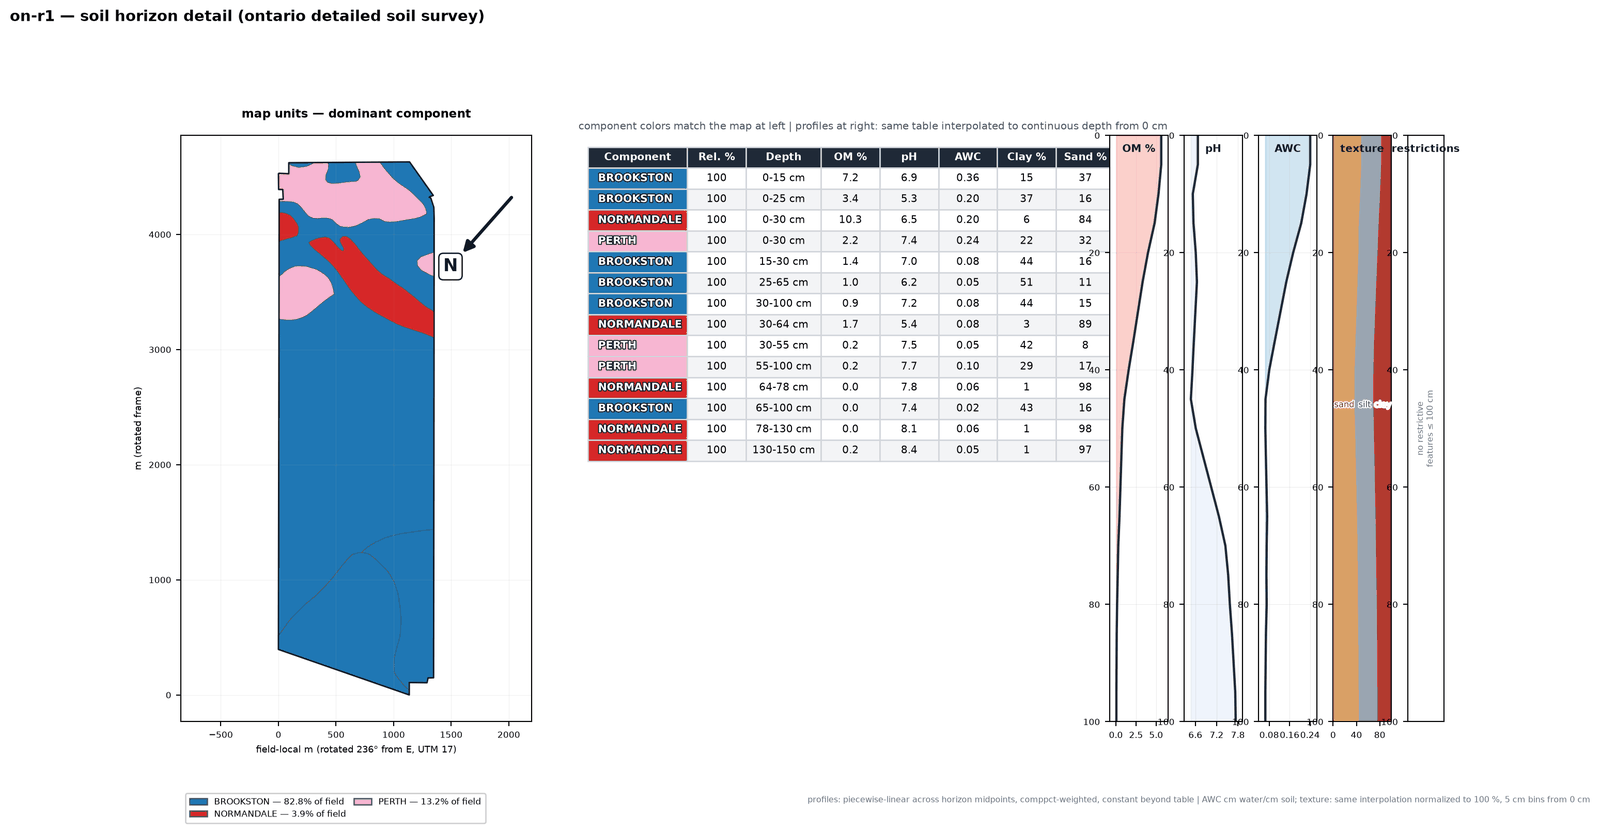
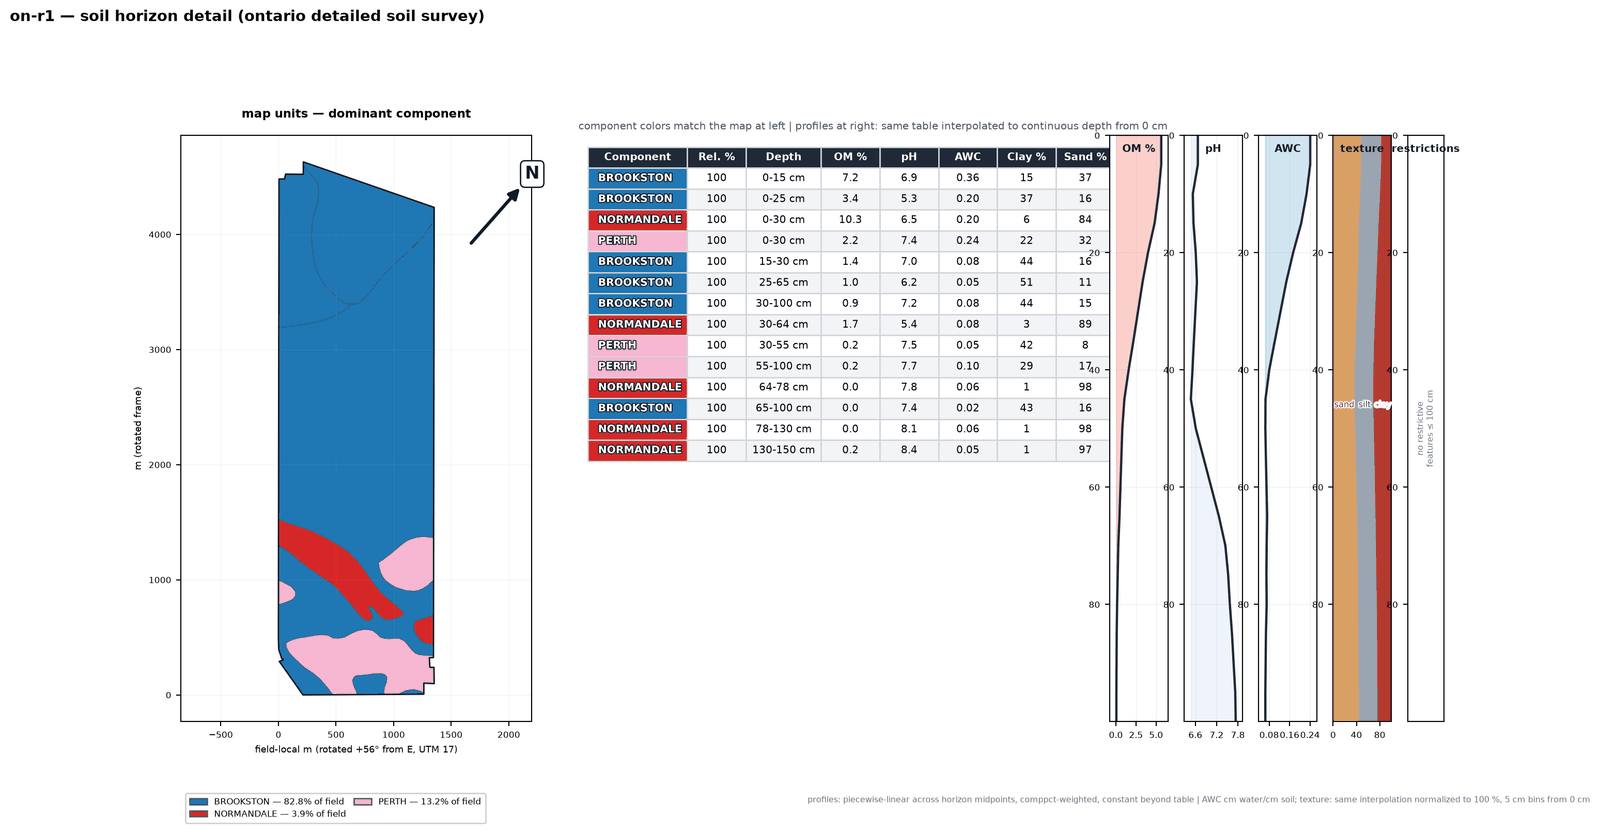
parity: restrictive-layer demo, WC per-year series, canonical rotation (skills 11eb5b73)

diff --git a/my-farm-advisor/data-pipeline/src/scripts/reporting/generate_soil_texture_triangles.py b/my-farm-advisor/data-pipeline/src/scripts/reporting/generate_soil_texture_triangles.py
@@ -465,20 +465,22 @@ def render_horizon_table(csv_path: Path, label: str, out: Path, source_note: str
         (_x1, _y1), (_x2, _y2) = max(_edges, key=lambda e: (e[1][0]-e[0][0])**2 + (e[1][1]-e[0][1])**2)
         _theta = _math.degrees(_math.atan2(_y2 - _y1, _x2 - _x1))
         _rot = (_theta - 90.0) if _long_axis == "vertical" else _theta
+        # canonical tilt in (-90, 90]: a longer rotation would apply the same
+        # long-edge alignment but flip north below the horizon
+        _rot = ((_rot + 90.0) % 180.0) - 90.0
         if abs(_rot) > 0.5:
             _gu = _gu.assign(geometry=_gu.geometry.map(lambda g: _aff.rotate(g, -_rot, origin=(0, 0))))
             _x0, _y0, _, _ = _gu.total_bounds
             _gu = _gu.assign(geometry=_gu.geometry.translate(xoff=-_x0, yoff=-_y0))
-        _rot %= 360.0
-        if _rot >= 359.75:
+        if abs(_rot) <= 0.05:
             _rot = 0.0
         _gu.plot(ax=ax_m, color=_gu["c"].fillna("#d1d5db"),
                  linewidth=0.4, edgecolor="#4b5563")
         _gu.dissolve().boundary.plot(ax=ax_m, color="#111827", lw=1.1)
-        _axlab = (f"m E from SW corner (UTM {_zone})" if _rot < 0.5 else
-                  f"field-local m (rotated {_rot:.0f}° from E, UTM {_zone})")
+        _axlab = (f"m E from SW corner (UTM {_zone})" if _rot == 0.0 else
+                  f"field-local m (rotated {_rot:+.0f}\u00b0 from E, UTM {_zone})")
         ax_m.set_xlabel(_axlab, fontsize=6.8)
-        ax_m.set_ylabel("m N" if _rot < 0.5 else "m (rotated frame)", fontsize=6.8)
+        ax_m.set_ylabel("m N" if _rot == 0.0 else "m (rotated frame)", fontsize=6.8)
         ax_m.tick_params(labelsize=6.4)
         ax_m.grid(alpha=0.18, lw=0.4)
         # north arrow, top-right, boxed for contrast; the geometry was rotated
@@ -589,6 +591,7 @@ def render_horizon_table(csv_path: Path, label: str, out: Path, source_note: str
         ax.fill_betweenx(bins, y, y.min(), alpha=0.25, color=cmap(0.6))
         ax.set_ylim(100, 0); ax.set_xlim(y.min() - (y.max()-y.min())*0.15 - 1e-9,
                                          y.max() + (y.max()-y.min())*0.15 + 1e-9)
+        ax.set_yticks([0, 20, 40, 60, 80])  # 100 label collides with xticks
         ax.text(0.5, 0.985, name, transform=ax.transAxes, ha="center", va="top",
                 fontsize=7.6, weight="bold", color="#111827")
         ax.tick_params(labelsize=6.6)
@@ -611,6 +614,7 @@ def render_horizon_table(csv_path: Path, label: str, out: Path, source_note: str
             axx.text(frac, depth, txt, fontsize=6.2, color=cc, ha="center", va="center",
                      path_effects=[pe.withStroke(linewidth=1.6, foreground="white")])
         axx.set_ylim(100, 0); axx.set_xlim(0, 100)
+        axx.set_yticks([0, 20, 40, 60, 80])
         from matplotlib.ticker import MaxNLocator as _M
         axx.xaxis.set_major_locator(_M(3))
         axx.text(0.5, 0.985, "texture", transform=axx.transAxes, ha="center", va="top",
@@ -619,21 +623,30 @@ def render_horizon_table(csv_path: Path, label: str, out: Path, source_note: str
     if has_restr or known_restr:
         axr = fig.add_subplot(gs2[n_cols2 - 1])
         axr.set_ylim(100, 0); axr.set_xlim(0, 1)
-        axr.set_yticks([0, 20, 40, 60, 80, 100]); axr.tick_params(labelsize=6.6)
+        axr.set_yticks([0, 20, 40, 60, 80]); axr.tick_params(labelsize=6.6)
         axr.set_xticks([])
         axr.text(0.5, 0.985, "restrictions", transform=axr.transAxes, ha="center",
                  va="top", fontsize=7.6, weight="bold", color="#111827")
         if has_restr:
-            for kind, top, bot in restricts:
-                bot = min(bot, 100.0)
+            for _i, (kind, top, bot) in enumerate(restricts):
+                bot_disp = min(bot, 100.0)
                 if top > 100:
                     continue
-                axr.add_patch(plt.Rectangle((0.08, top), 0.84, max(bot - top, 4),
+                axr.add_patch(plt.Rectangle((0.08, top), 0.84, max(bot_disp - top, 4),
                                             facecolor=_restr_color(kind), alpha=0.28,
                                             edgecolor=_restr_color(kind), hatch="///", lw=0.8))
-                axr.text(0.5, max(top, (top + bot) / 2 - 3), kind, rotation=90, fontsize=5.6,
-                         color=_restr_color(kind), ha="center", va="center", weight="bold",
+                # label at the band's own extent with its FULL depth window, and
+                # stagger two overlapping bands left/right so names never merge
+                _xl = {0: 0.30, 1: 0.70}.get(_i % 2, 0.5)
+                _lab = f"{kind} {top:.0f}–{bot:.0f} cm"
+                axr.text(_xl, max(top, (top + bot_disp) / 2 - 3), _lab, rotation=90,
+                         fontsize=5.4, color=_restr_color(kind), ha="center",
+                         va="center", weight="bold",
                          path_effects=[pe.withStroke(linewidth=1.4, foreground="white")])
+                if bot > 100:  # band continues below the chart
+                    axr.annotate("", xy=(0.5, 99.2), xytext=(0.5, 94.5),
+                                 arrowprops=dict(arrowstyle="-|>", lw=1.0,
+                                                 color=_restr_color(kind)))
             axr.text(0.5, 0.015, "hatched = restrictive layer",
                      transform=axr.transAxes, ha="center", va="bottom", fontsize=5.8)
         else:
